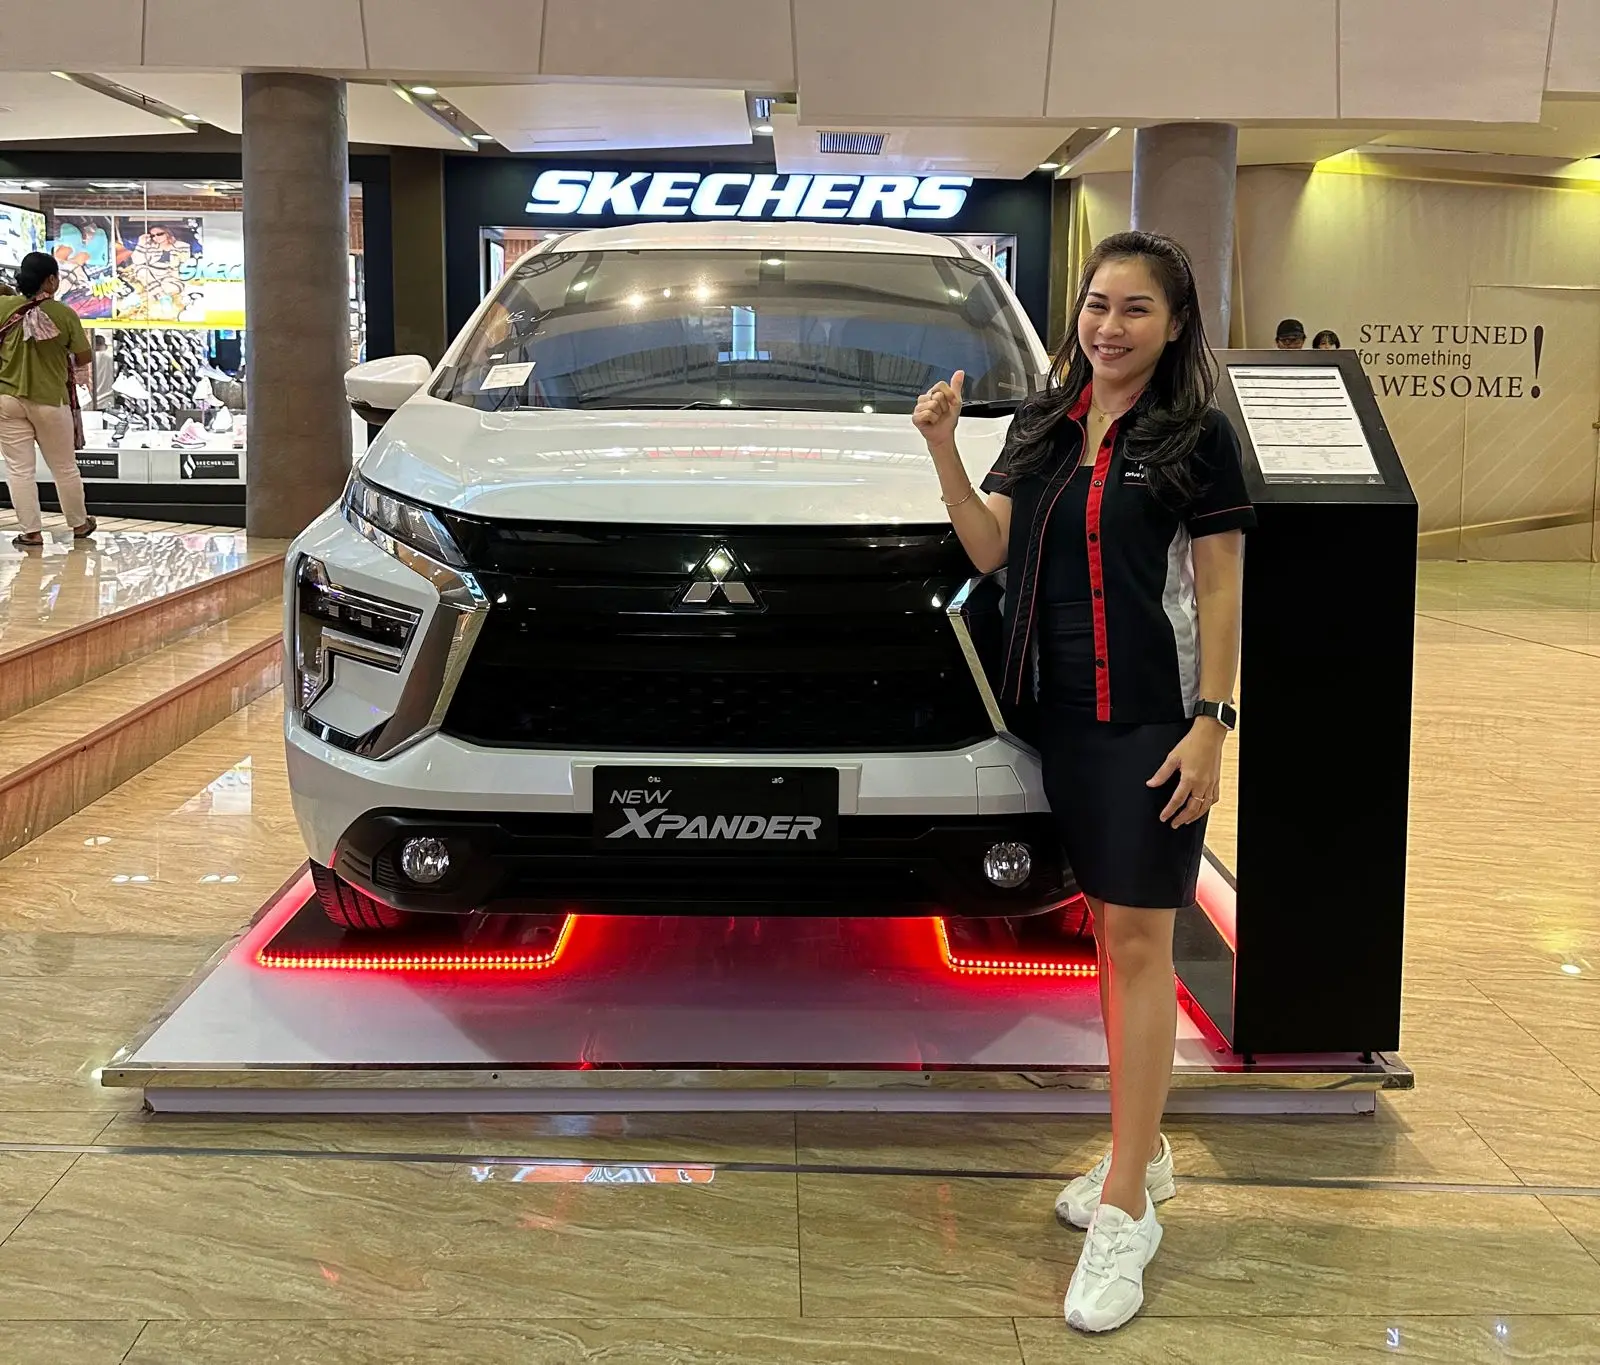
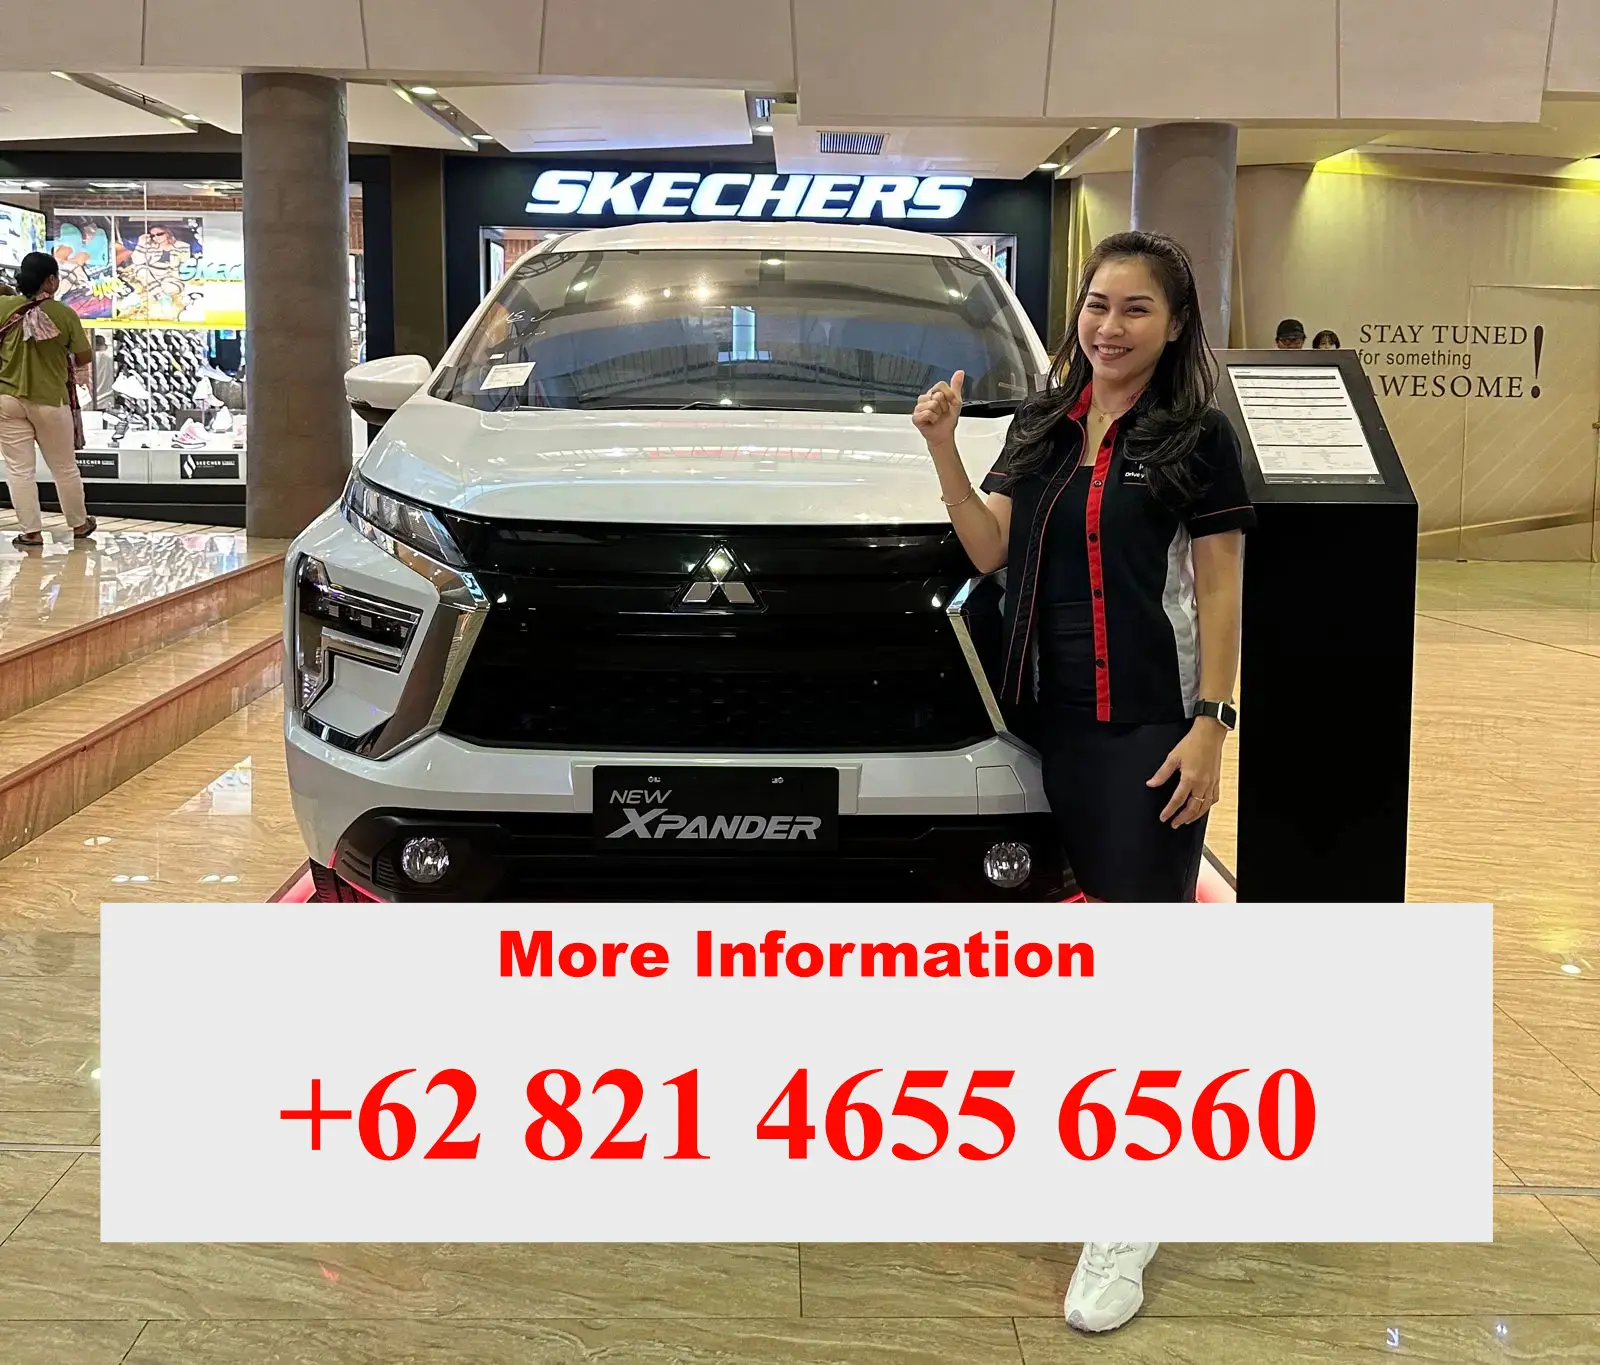
update about

Changed region(s): [[0.0625, 0.6462, 0.9375, 0.9231]]

diff --git a/index.html b/index.html
@@ -163,7 +163,9 @@
 
         <div class="row justify-content-between">
           <div class="col-lg-5 d-flex align-items-center justify-content-center about-img">
-            <img src="assets/img/about.webp" class="img-fluid" alt="Sales Consultant Mitsubishi Bali - Riana" data-aos="zoom-in">
+            <a href="https://api.whatsapp.com/send/?phone=6282146556560">
+              <img src="assets/img/about.webp" class="img-fluid" alt="Sales Consultant Mitsubishi Bali - Riana" data-aos="zoom-in">
+            </a>
           </div>
           <div class="col-lg-6 pt-5 pt-lg-0">
             <h3 data-aos="fade-up">Sales Consultant - Mitsubishi Denpasar Bali</h3>
